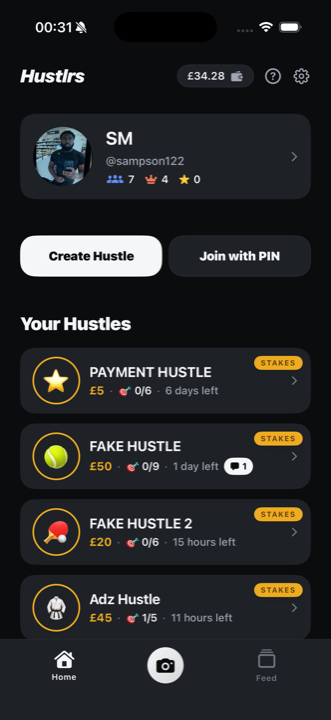
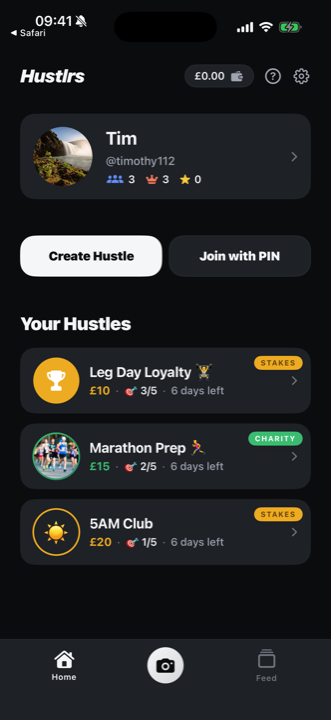
Demo account screenshots: new hero + inside-the-app phones

diff --git a/index.html b/index.html
@@ -10,7 +10,7 @@
   <meta property="og:url" content="https://hustlrs.co">
   <link rel="icon" type="image/png" sizes="32x32" href="/img/favicon-32.png?v=2">
   <link rel="apple-touch-icon" href="/img/apple-touch-icon.png?v=2">
-  <link rel="stylesheet" href="style.css?v=4">
+  <link rel="stylesheet" href="style.css?v=5">
 </head>
 <body>
   <div class="wrap">
@@ -169,6 +169,16 @@
             <div class="pot-slogan green">Skip it, Donate it.</div>
           </div>
         </div>
+      </div>
+    </section>
+
+    <section class="block">
+      <p class="kicker">Inside the app</p>
+      <h2 class="title">Real pots.&nbsp; Real proof.&nbsp; Real time.</h2>
+      <p class="lead">Live pot tracking with your secured and at-risk split, and a feed of your crew's proof photos as they land.</p>
+      <div class="phone-row">
+        <div class="phone lean-l"><img src="img/app-hustle.png" alt="A hustle's pot card showing secured and at risk money" loading="lazy"></div>
+        <div class="phone lean-r"><img src="img/app-feed.png" alt="The feed showing a member's workout proof photo" loading="lazy"></div>
       </div>
     </section>
 

diff --git a/style.css b/style.css
@@ -460,3 +460,19 @@ footer a:hover { color: var(--text); }
   .example-table td { padding: 11px 6px; font-size: 13.5px; }
   .example-table .lost, .example-table .back { white-space: nowrap; }
 }
+
+/* app screens strip */
+.phone-row {
+  display: flex;
+  gap: 36px;
+  justify-content: center;
+  align-items: flex-start;
+  margin-top: 40px;
+  flex-wrap: wrap;
+}
+.phone-row .phone { width: min(290px, 78vw); }
+.phone-row .phone.lean-l { transform: rotate(-2deg); }
+.phone-row .phone.lean-r { transform: rotate(2deg); margin-top: 26px; }
+@media (max-width: 820px) {
+  .phone-row .phone.lean-l, .phone-row .phone.lean-r { transform: none; margin-top: 0; }
+}
